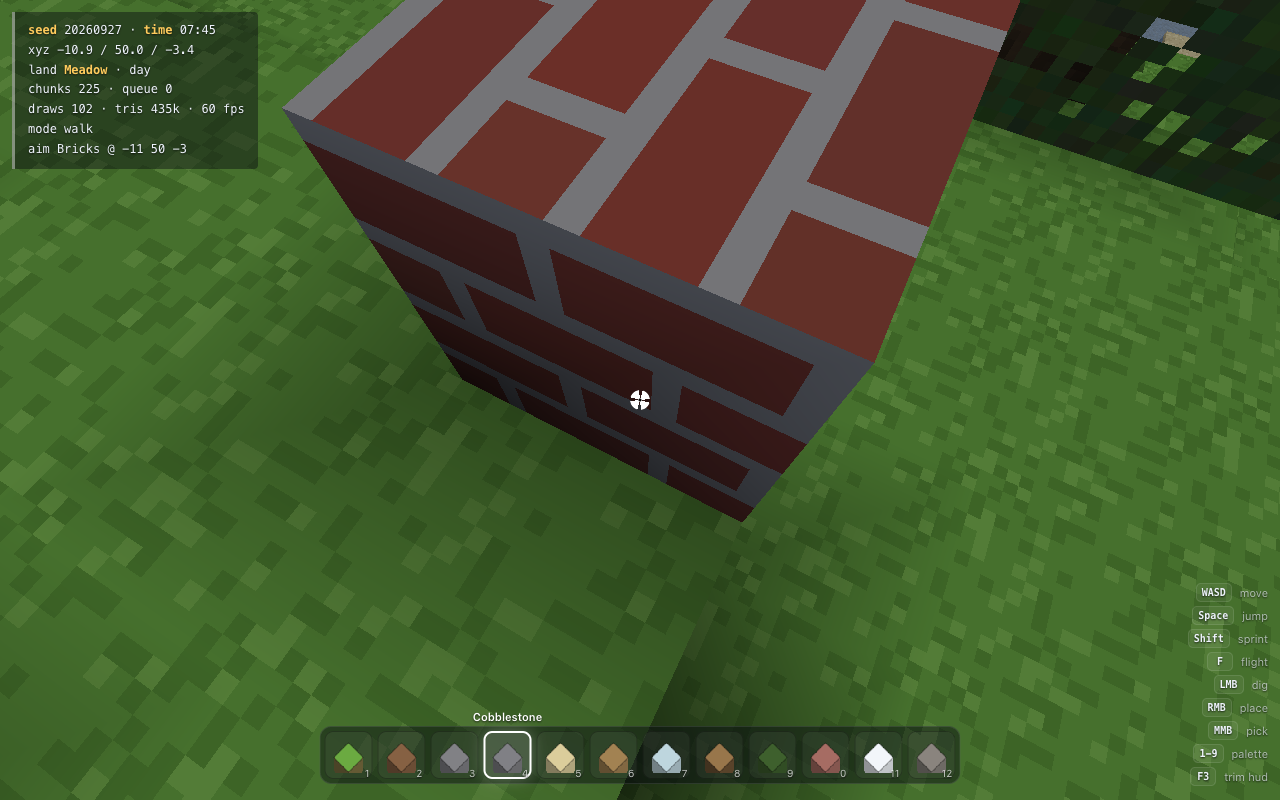
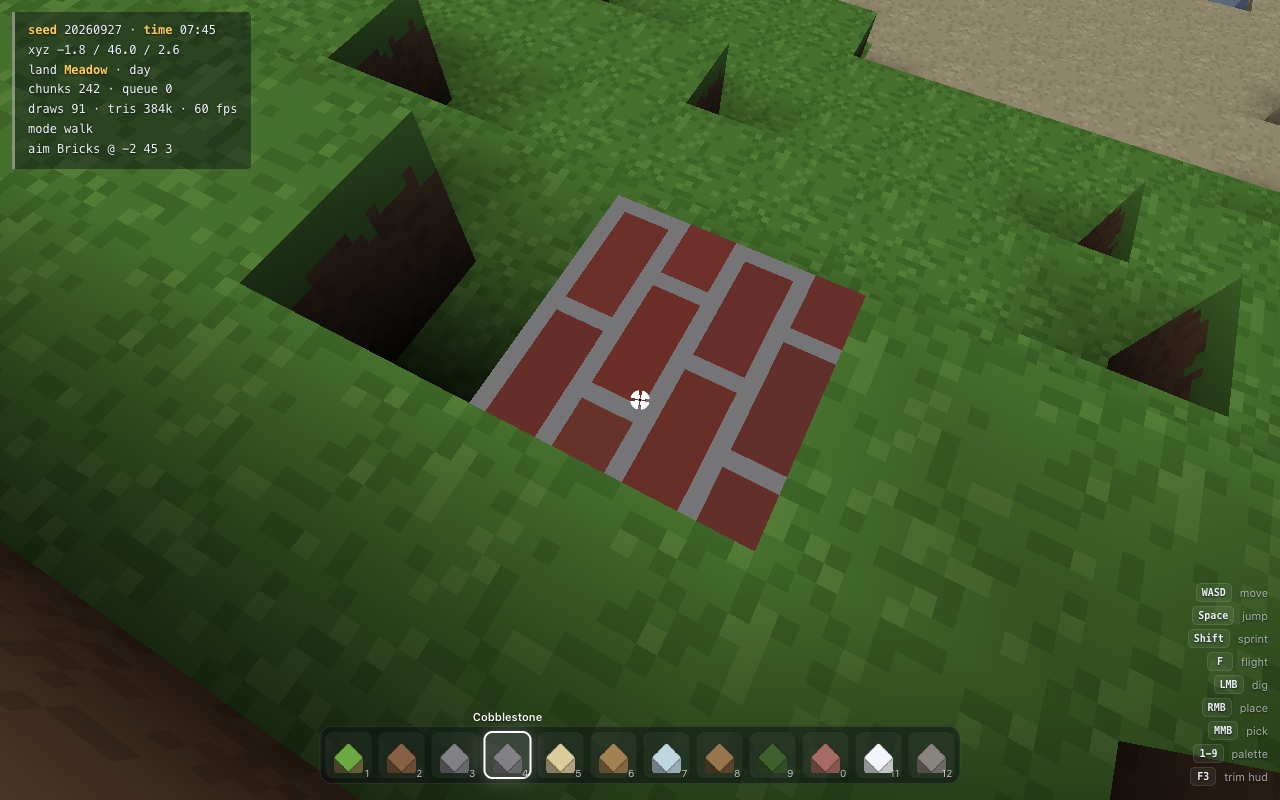
fix: W and S moved backwards
The rotation from input space to world space negated the wrong pair of
terms for the forward/back axis. Since forward() is (-sin yaw, -cos yaw)
while the input's forward axis is +z in input space, the iz terms have to
be negated on both components. They were not, so W produced a movement
vector of (sin yaw, cos yaw) — the exact opposite of where the camera was
pointing.

Worth noting why this survived so long: the strafe axis is unaffected, so
A and D felt correct, and the bug is invisible in a still screenshot. It
only shows up as "why am I running away from what I am looking at".

selftest now asserts the invariant directly: for each of the four keys,
at eight different yaws, the movement vector must have the expected
component along the facing direction and zero across it. That catches a
sign slip here without anyone having to notice it by playing.

Verified in the real page: W moves 3.08 blocks along the facing vector
(dot product 1.000), S exactly -1.000, A and D purely sideways. selftest
14/14, check-nopointerlock 6/6, 0 page and console errors.

diff --git a/src/player.js b/src/player.js
@@ -161,9 +161,13 @@ export class Player {
     }
     const mag = Math.hypot(ix, iz);
     if (mag > 0) { ix /= mag; iz /= mag; }
+    // Rotate the input basis into world space. `forward()` is
+    // (-sin yaw, -cos yaw) and the camera's right is (cos yaw, -sin yaw), so
+    // the iz (forward/back) terms must both be negated — getting this sign
+    // wrong swaps W and S while leaving A and D looking perfectly fine.
     const s = Math.sin(this.yaw), c = Math.cos(this.yaw);
-    const wishX = ix * c + iz * s;
-    const wishZ = -ix * s + iz * c;
+    const wishX = ix * c - iz * s;
+    const wishZ = -ix * s - iz * c;
 
     this.sprinting = this.keys.has('ShiftLeft') || this.keys.has('ShiftRight');
     let top = this.flying ? SPEED_FLY
